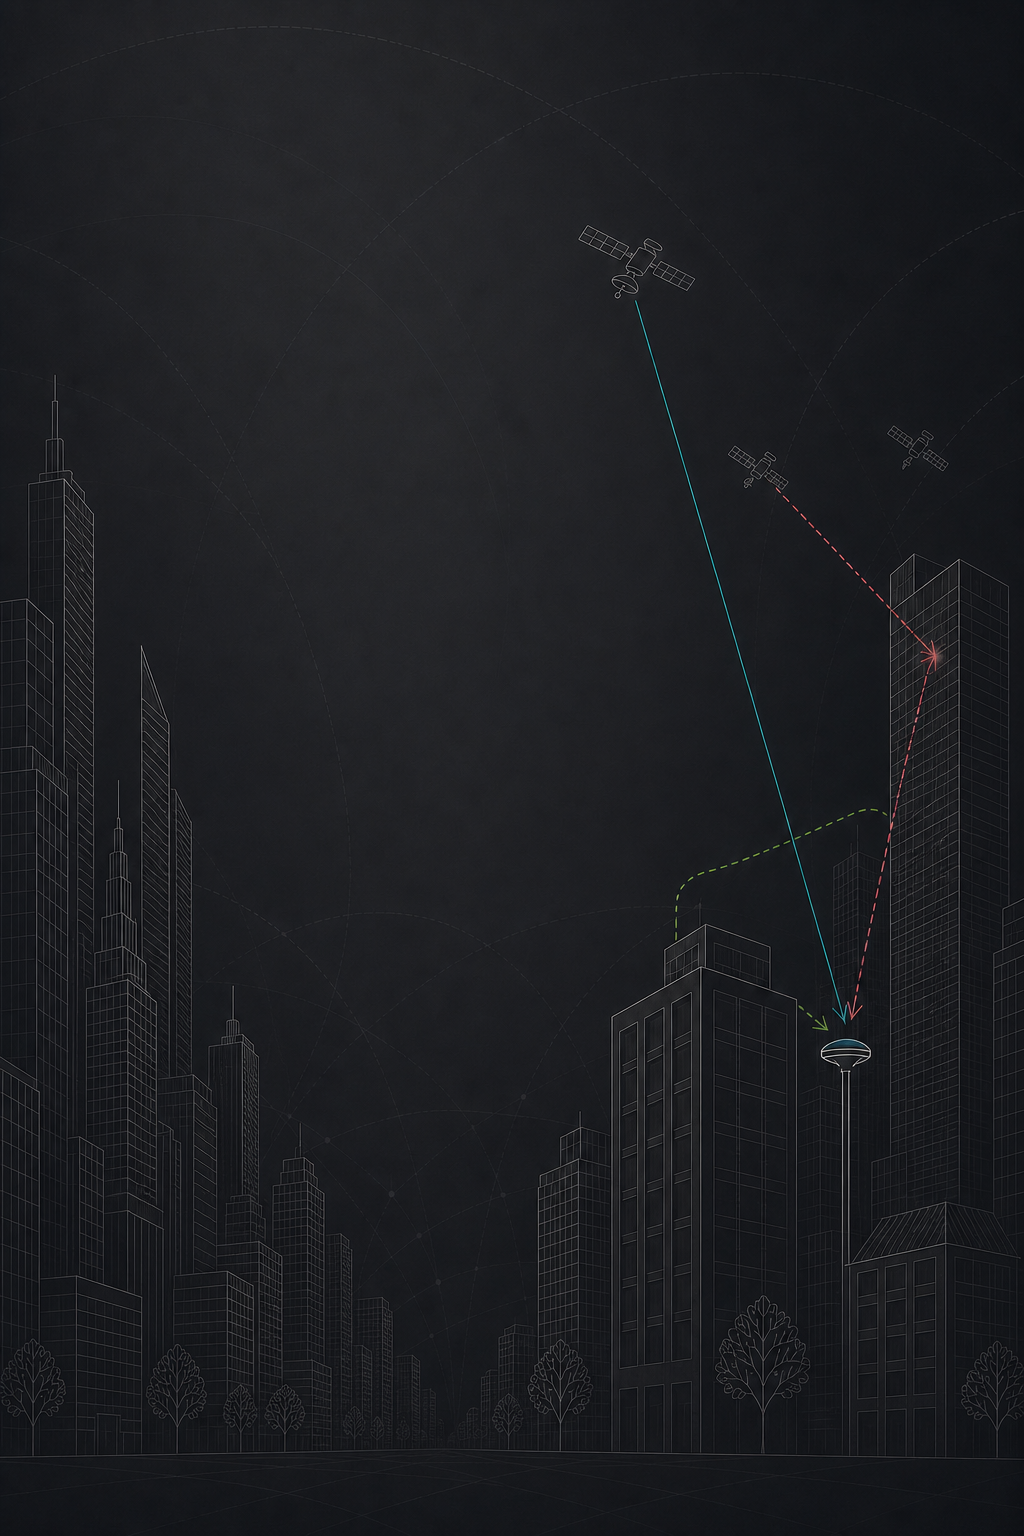
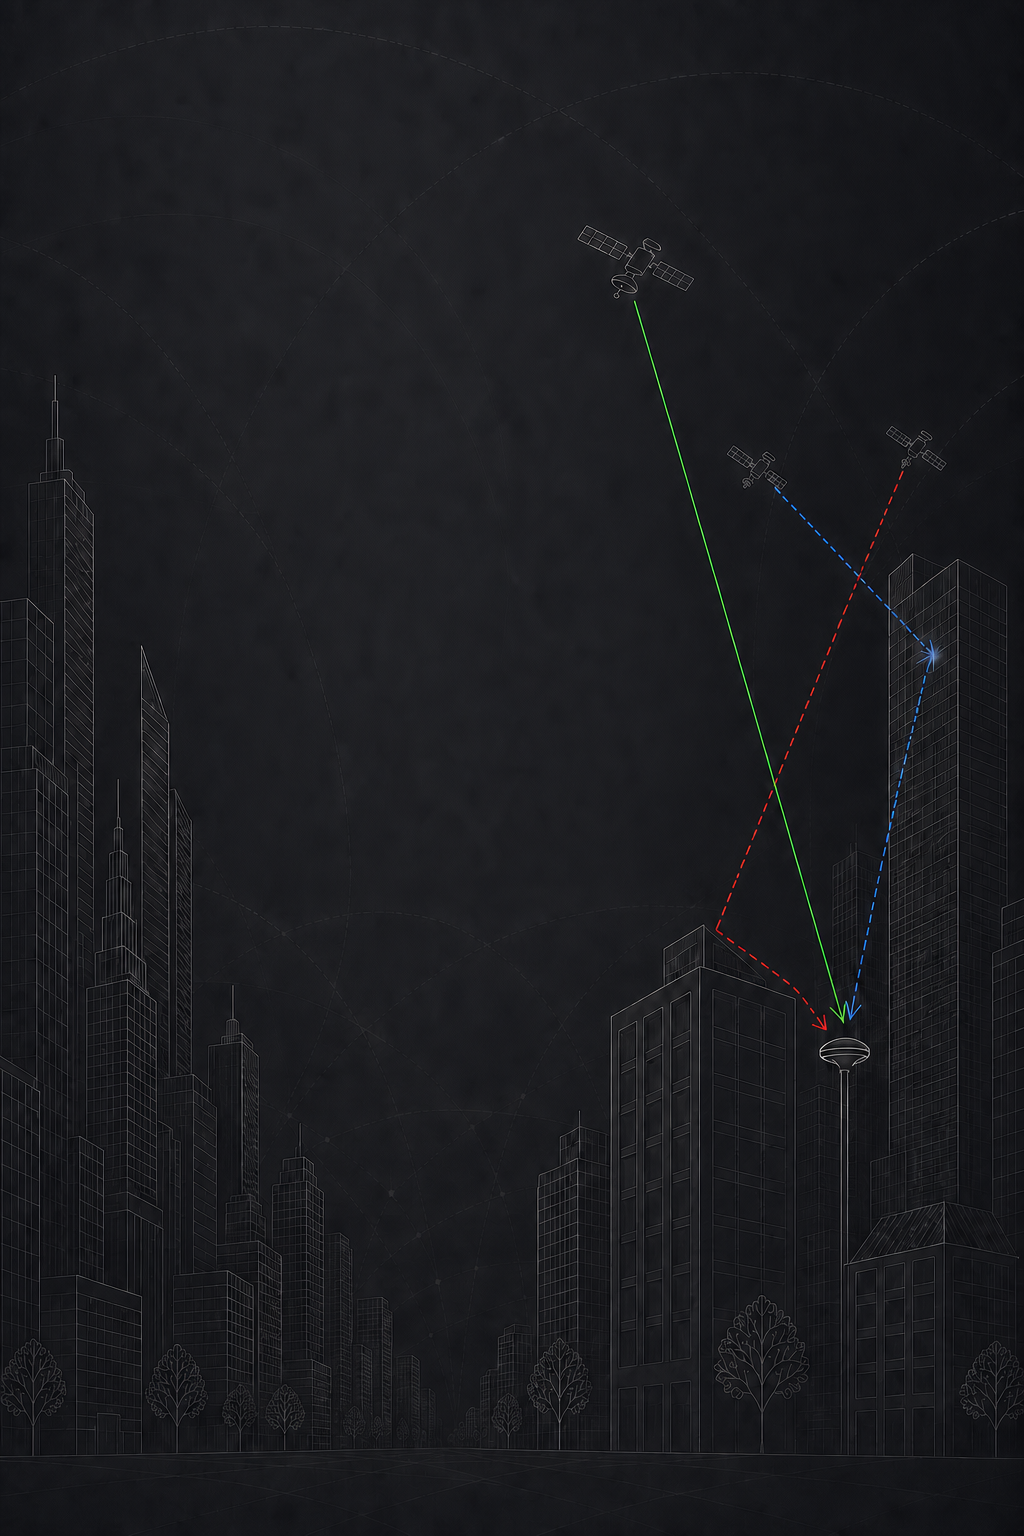
Correct GNSS path colors and diffraction geometry

diff --git a/app/page.tsx b/app/page.tsx
@@ -210,27 +210,6 @@ export default function Home() {
             .
           </p>
 
-          <ul className="signal-legend" aria-label="GNSS propagation legend">
-            <li>
-              <span className="signal-swatch signal-los" aria-hidden="true" />
-              LOS
-            </li>
-            <li>
-              <span
-                className="signal-swatch signal-reflection"
-                aria-hidden="true"
-              />
-              Reflection
-            </li>
-            <li>
-              <span
-                className="signal-swatch signal-diffraction"
-                aria-hidden="true"
-              />
-              Diffraction
-            </li>
-          </ul>
-
           <div className="biography">
             <img
               className="portrait"

diff --git a/app/globals.css b/app/globals.css
@@ -180,48 +180,6 @@ video {
   font-size: 15px;
 }
 
-.signal-legend {
-  margin: -3px 0 20px;
-  padding: 0;
-  list-style: none;
-  display: flex;
-  align-items: center;
-  flex-wrap: wrap;
-  gap: 8px 20px;
-  color: var(--muted);
-  font-size: 11px;
-  font-weight: 400;
-}
-
-.signal-legend li {
-  margin: 0;
-  display: inline-flex;
-  align-items: center;
-  gap: 7px;
-}
-
-.signal-swatch {
-  width: 31px;
-  height: 0;
-  display: inline-block;
-  border-top-width: 2px;
-}
-
-.signal-los {
-  border-top-style: solid;
-  border-top-color: #2aa7bd;
-}
-
-.signal-reflection {
-  border-top-style: dashed;
-  border-top-color: #d85f6b;
-}
-
-.signal-diffraction {
-  border-top-style: dotted;
-  border-top-color: #7aaa58;
-}
-
 .biography {
   min-height: 250px;
 }
